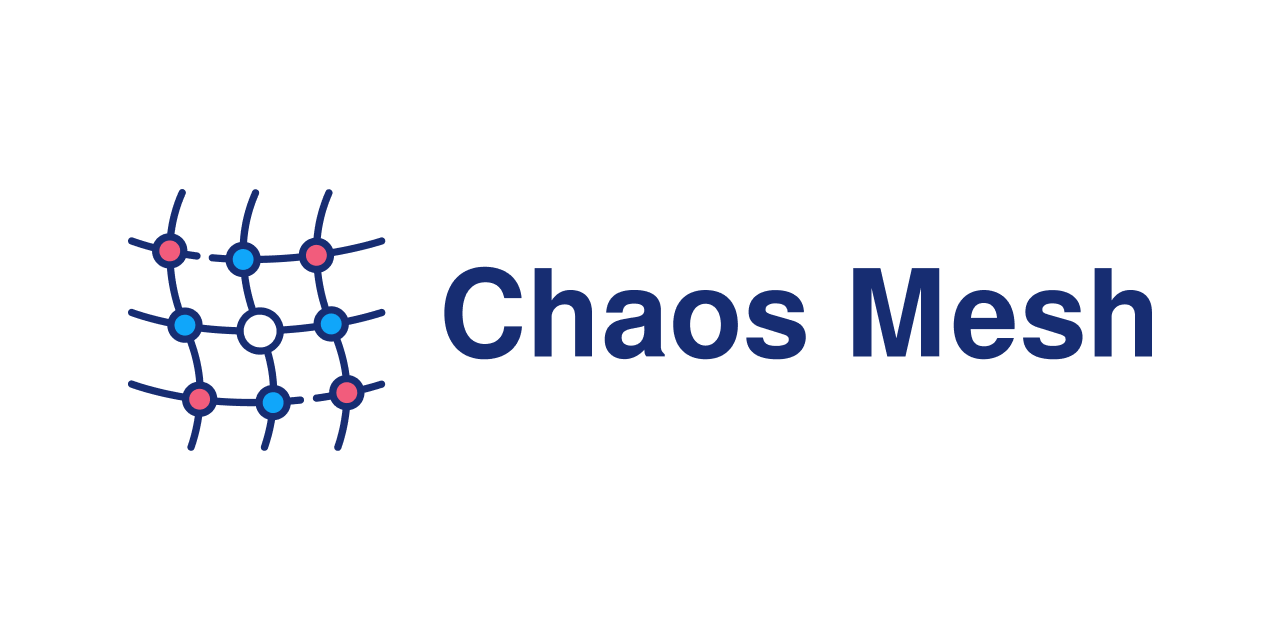
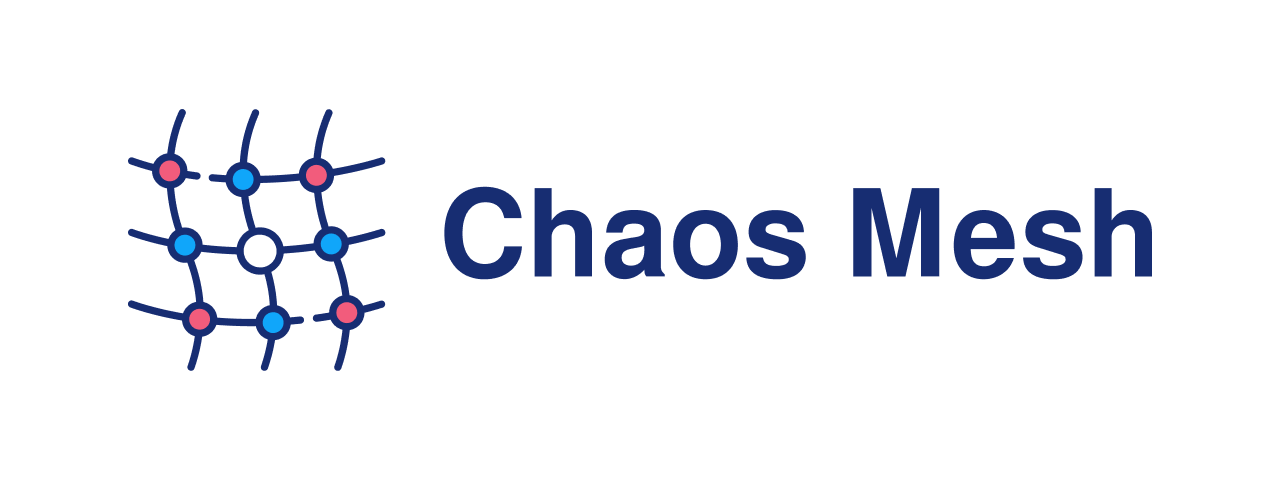
Optimize image

diff --git a/profile/README.md b/profile/README.md
@@ -1,3 +1,5 @@
 ![Chaos Mesh Social Preview](./chaos-mesh-social-preview.png)
 
 Chaos Mesh is an open source cloud-native Chaos Engineering platform. It offers various types of fault simulation and has an enormous capability to orchestrate fault scenarios. Using Chaos Mesh, you can conveniently simulate various abnormalities that might occur in reality during the development, testing, and production environments and find potential problems in the system. To lower the threshold for a Chaos Engineering project, Chaos Mesh provides you with a visualization operation. You can easily design your Chaos scenarios on the Web UI and monitor the status of Chaos experiments.
+
+To view all its features, see [https://chaos-mesh.org/docs/basic-features/].
